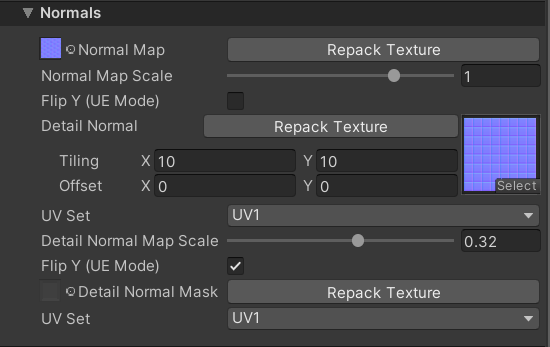
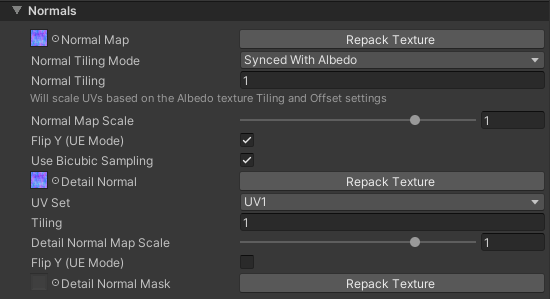
added docs for 7.0.0-dev.2

diff --git a/src/pages/docs/orl-standard/base-shader.md b/src/pages/docs/orl-standard/base-shader.md
@@ -206,6 +206,10 @@ GSAA, or Geometric Specular Anti Aliasing, helps avoid severe specular aliasing 
 - Assign Volume: Used to assing the volume textures to the material. Drag & Drop your volume object into that field to assign it
 - Unset Volume: Removes the assigned volume from the material. Only visible if some volume data is set.
 - Support Compressed Volumes: Enables support for compressed Bakery Volume textures. Only use this when enabling "Compress Volume" option in the Bakery bake settings.
+- Support Baked Volume Rotation: Enables support for volumes rotated during baking. Requires special scripting support to work in VRChat.
+- Support Runtime Volume Rotations: Enables support for rotating volumes in runtime. Requires special scripting support to work in VRChat.
+
+_Support package for volume rotations in VRChat is going to be available in the future._
 
 {% callout type="warning" title="Update Your Bakery" %}
 If you're not seeing MonoSH in your Directionality Mode dropdown when using bakery, you should update to the latest version! MonoSH is a new feature that was added in Bakery 1.9.0, it allows you to use a single directional lightmap to achieve a level of quality comparable to the old regular SH lightmaps (which used 3 separate textures) and it doesn't require any special adapters to work

diff --git a/src/pages/docs/toon/base-shader.md b/src/pages/docs/toon/base-shader.md
@@ -52,6 +52,7 @@ This documentation is broken up into modules that correspond to the foldouts in 
 - Detail Normal: The extra normal map texture to be applied on top. Has its own tiling controls
 - Detail Normal Scale: Controls the strength of the detail normal map
 - Flip Y: Flips the Y axis of the detail normal map
+- Use Bicubic Sampling: Enables a more expensive but higher quality normal map sampling mode. This can be useful for lower resolution/more aliased normal maps.
 - Detail Normal Mask: The mask texture for the detail normal map. Allows you to control where the detail normal is applied
 - UV Set: Controls which UV set the Detail Normals will use
 

diff --git a/src/pages/docs/changelog.md b/src/pages/docs/changelog.md
@@ -61,6 +61,7 @@ Version 7.0.0 adds lots of new features, improvements, and bugfixes. This releas
 - Toon shaders can now sample lightprobe colors uniformly, which is desireable in some cases.
 - Glitch Screen shader now has a separate **Transparency** texture that can be used to control the alpha channel of the material. It now also supports different render types.
 - You can now enable LTCGI on mobile platforms.
+- Toon shaders now support using Bicubic sampling for the normal map. This can be useful for lower resolution/more aliased normal maps.
 
 ### Bugfixes
 
